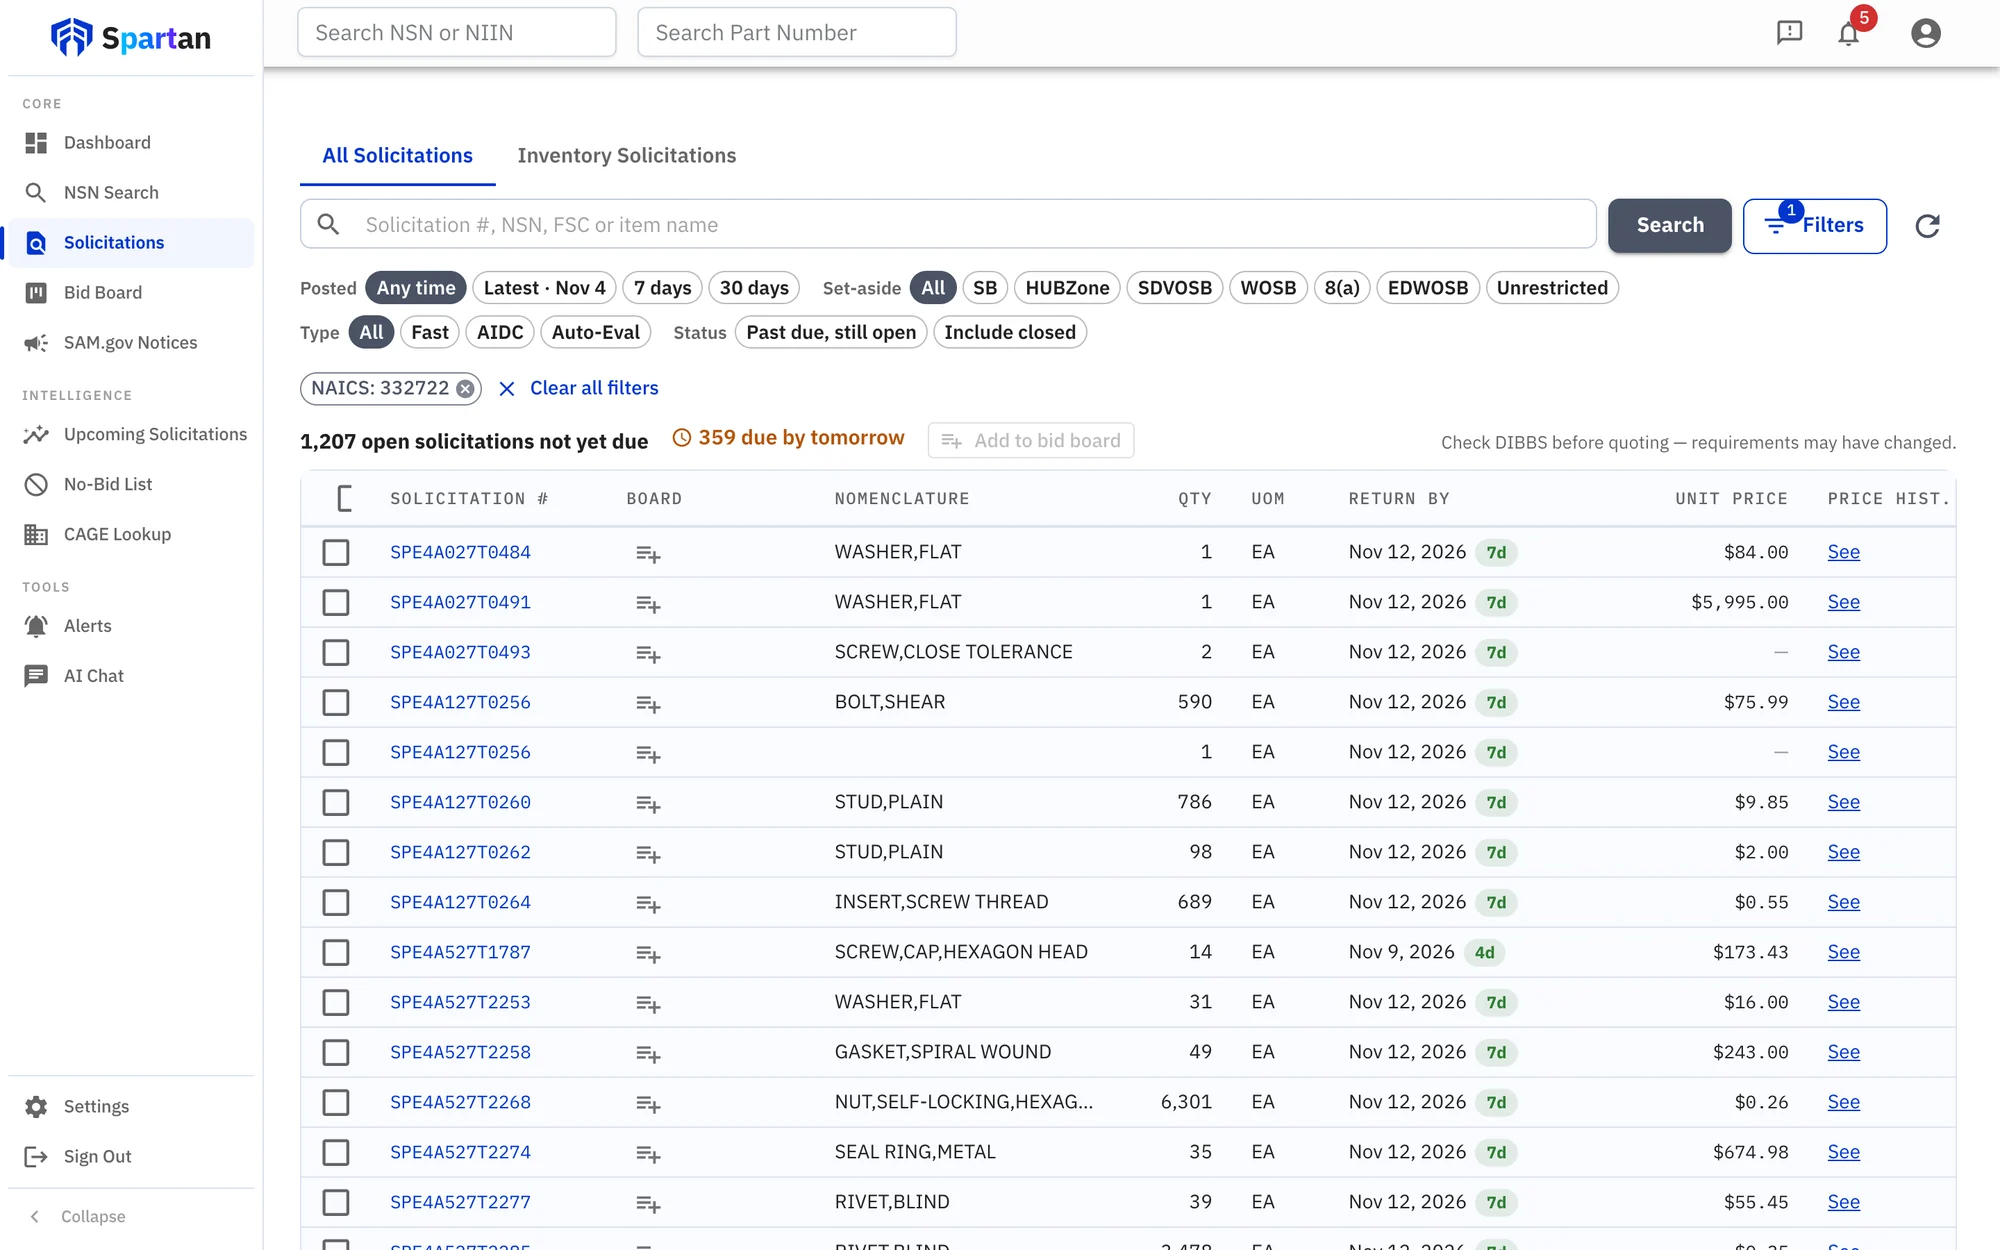
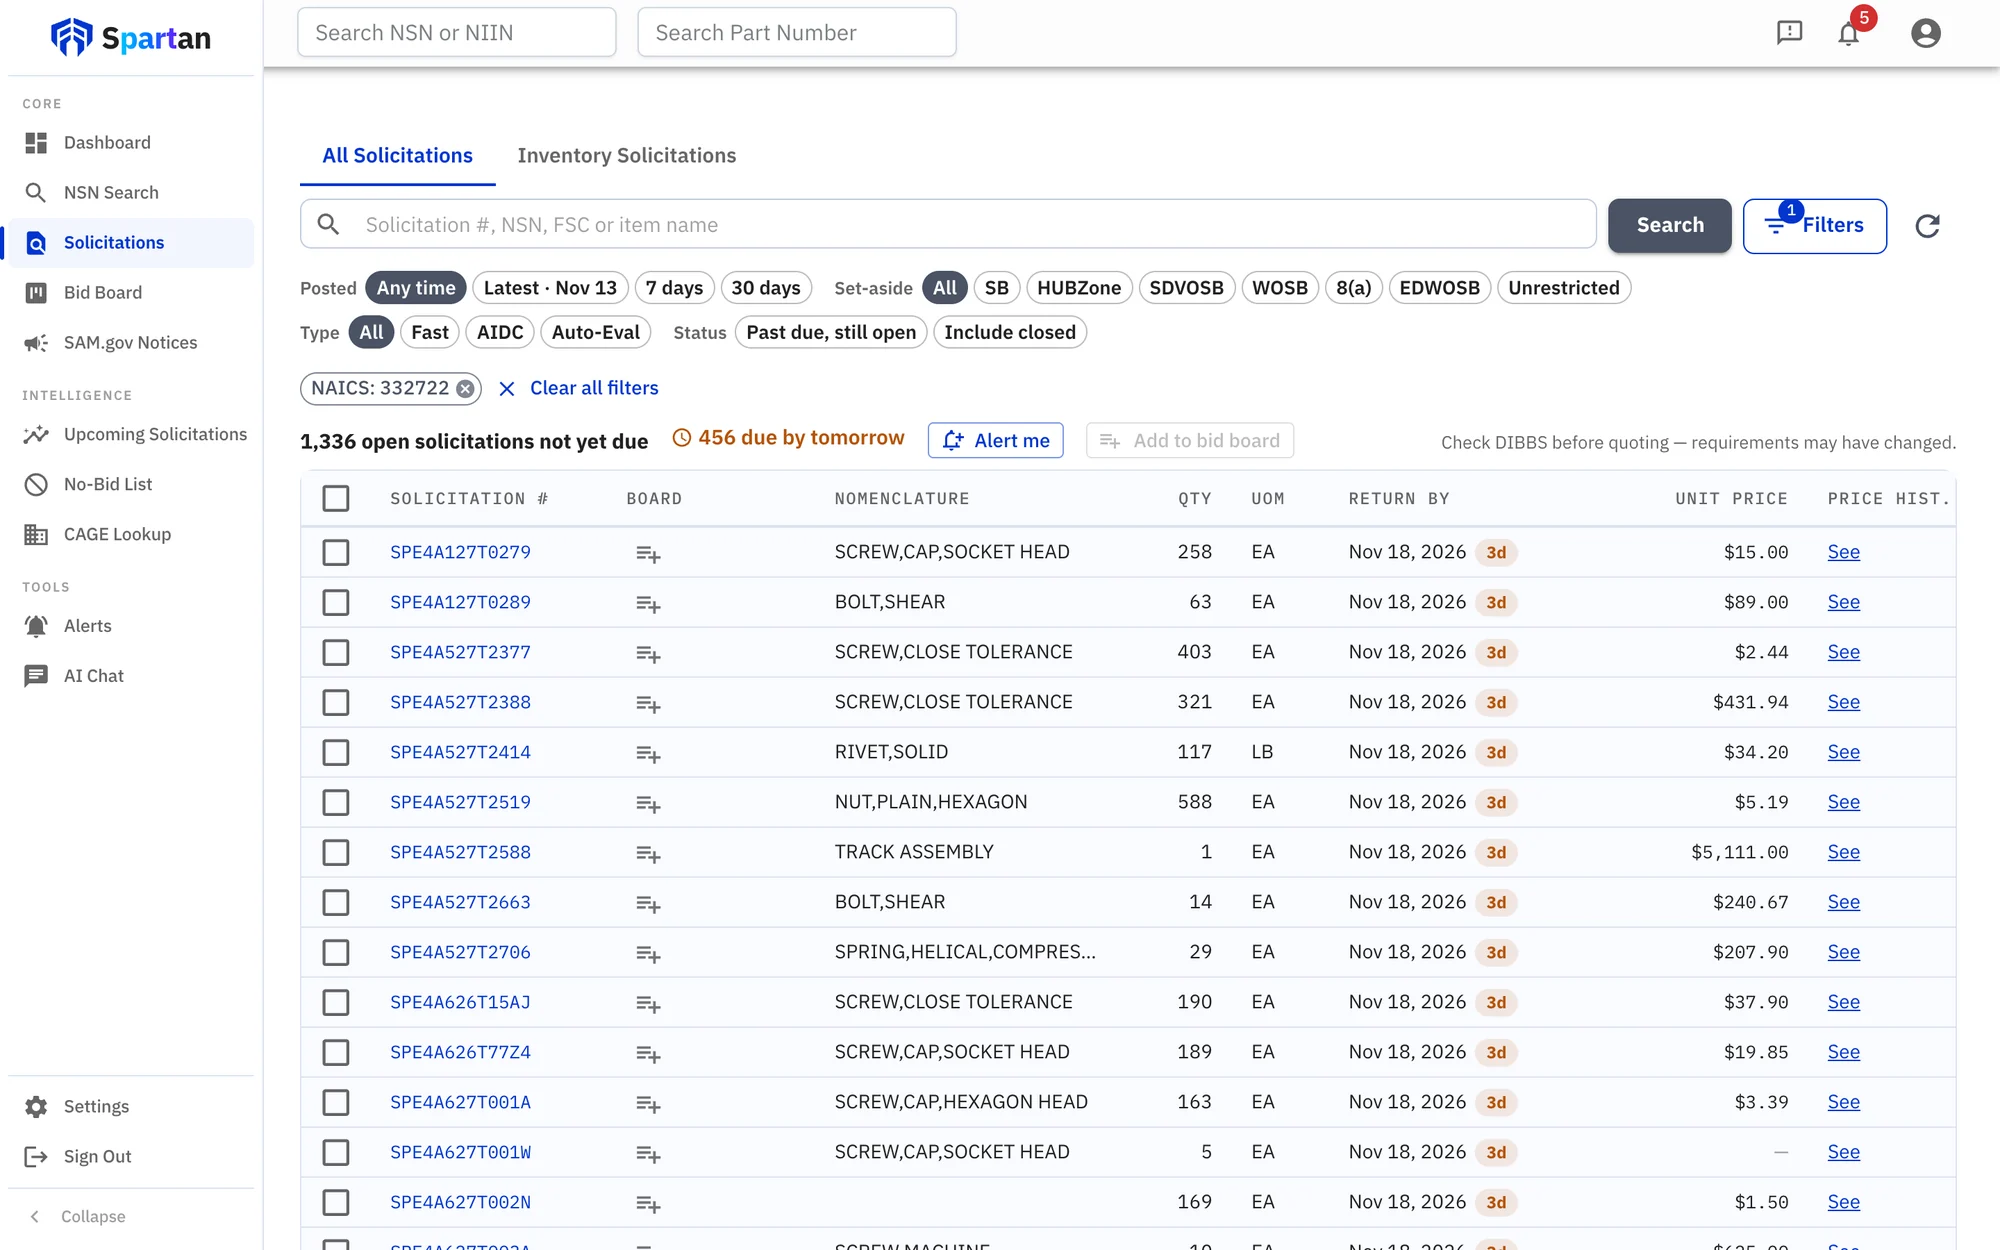
Site: retake the Solicitations screenshot with the full select-all checkbox (#30)

diff --git a/CLAUDE.md b/CLAUDE.md
@@ -8,7 +8,7 @@ Static marketing site (home page, privacy policy, terms of service and SMS terms
 - Everything else lives in `index.html`: inline CSS (custom properties like `--navy`, `--blue2`) and one inline script (clip playback, the hero search, the live counts). The layout (SPAR-240): search-first hero, full-width product shot with the counts under it, a card grid for the modules, and split heading/content sections. `logo-ink.png` and `logo-white.png` are transparent crops of `spartan_logo.png` for the light nav and the dark footer. External resources are Google Fonts (Inter), the Google Ads tag (`AW-17734229904`, in the `<head>` of every page, ad personalization off; the policy's cookies section depends on that), and PostHog (same project and token as the app, `cross_subdomain_cookie` so data.spartansystems.us continues the visitor's ID; covered by the policy's PostHog lines).
 - All CTAs point to the product app: Log In to `https://data.spartansystems.us/login`; the trial buttons to `https://data.spartansystems.us/start-trial` (government-data's route: Create Account when signed out, then the plan picker after onboarding); the hero search to `/search` with `niin`, `partNumber` or `itemName` by its tab, the parameters government-data's SearchPage reads (its script cuts a 13-digit NSN to the NIIN; the button carries `data-ph-capture-attribute-search-type`); contact is `mailto:sales@spartansystems.us`. Each trial button carries `data-ph-capture-attribute-placement` for PostHog.
 - The counts line under the product shot and the two DIBBS coverage cards fill in dated counts from spartan-api's anonymous `GET /api/Site/stats` (CORS allows this origin for that route only). If the call fails the static text stays.
-- The `screen_*.webp` screenshots are of the `government-data` app and go stale when its UI changes. The 2026-11-05 set was taken as the QA account through a read-only proxy to the prod API, personalized to CAGE 6JSD9, a small fastener supplier. Its name is kept out, but the CAGE shows on the dashboard and the pricing vendor table, since both are public award data. `screen_leo.webp` was replaced by `clip_leo.mp4` in SPAR-237. The bid board is made up from that CAGE's real open solicitations and DIBBS awards, with closed lines in the automatic "Awarded on DIBBS" state. Leo's answers on the page are real, asked that day and shortened. `screen_pricing.webp` was retaken on 2026-11-06 (SPAR-218, the confidence chip removed) on the live app as the QA account, same NSN 5306-01-045-6594 and framing. The NSN page doesn't read the user's CAGE, so that shot needs no proxy.
+- The `screen_*.webp` screenshots are of the `government-data` app and go stale when its UI changes. The 2026-11-05 set was taken as the QA account through a read-only proxy to the prod API, personalized to CAGE 6JSD9, a small fastener supplier. Its name is kept out, but the CAGE shows on the dashboard and the pricing vendor table, since both are public award data. `screen_leo.webp` was replaced by `clip_leo.mp4` in SPAR-237. The bid board is made up from that CAGE's real open solicitations and DIBBS awards, with closed lines in the automatic "Awarded on DIBBS" state. Leo's answers on the page are real, asked that day and shortened. `screen_pricing.webp` was retaken on 2026-11-06 (SPAR-218, the confidence chip removed) on the live app as the QA account, same NSN 5306-01-045-6594 and framing. The NSN page doesn't read the user's CAGE, so that shot needs no proxy. `screen_solicitations.webp` was retaken on 2026-11-15, after government-data#192 fixed the clipped select-all checkbox. It was shot on the live app as the QA account, with no proxy, because the list doesn't read the CAGE. The window was 1440×900 at 2x, scaled to 2000×1250 WebP q86.
 - **Plan prices** are plain text in `index.html`, in three places: the counts line under the product shot ("From $…"), the pricing panel's seat table and the final CTA ("from $… per month"). They must match what checkout charges and the app's `/features` page.
 - Deploy = push to the default branch (Pages serves the branch directly; there is no Actions workflow).
 - `clip_*.mp4` are muted loops (Leo, bid board quote file, search to NSN pricing) recorded 2026-11-13 with the same QA proxy and CAGE 6JSD9: headless Chrome screencast at 2x, cropped to one panel, encoded to H.264 by Chrome's MediaRecorder and remuxed with macOS `avconvert -p PresetPassthrough` so the file has a duration. Each is under 1 MB; `clip_*.webp` is its poster. The page's script plays a clip only while it is on screen and leaves it on its poster under `prefers-reduced-motion`. Every element with `data-expand` (the dashboard shot, the module cards, Leo's clip) gets an Expand button that opens it in the `#viewer` dialog, where clips play with controls; the button's `data-ph-capture-attribute-expand` names the item for PostHog.
